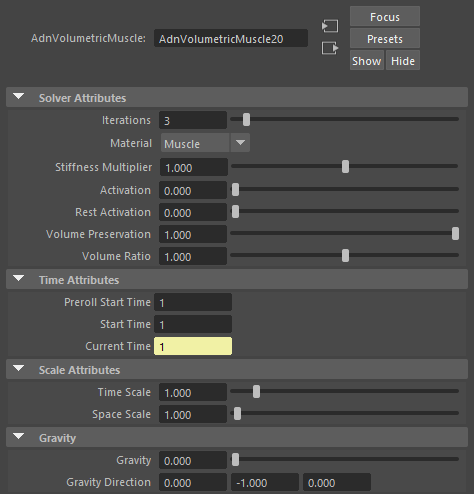
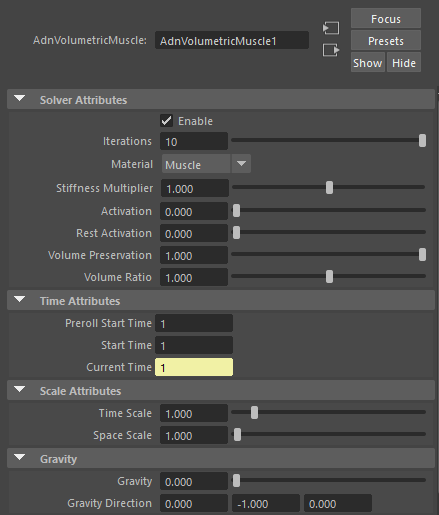
Updated volumetric muscle documentation.

Changed region(s): [[0.0, 0.1822, 1.0, 0.9109], [0.0592, 0.0, 0.9772, 0.1518], [0.1481, 0.9109, 0.9476, 1.0]]

diff --git a/docs/documentation/maya/1.0.0/volumetric.md b/docs/documentation/maya/1.0.0/volumetric.md
@@ -1,10 +1,12 @@
-# How To Use
+# Introduction
 
 Volumetric Muscle is a Maya deformer for fast, robust and easy-to-configure volumetric muscle simulation for digital assets. Thanks to the combination of internal (structural) and external (attachments) constraints, this deformer can produce dynamics that allow the mesh to acquire the simulated characteristics of a muscle with realistic volume preservation, fibers activations to modulate the rigidity and attachments properties to external objects to follow the global kinematics of the character.
 
+The influence of these constraints have in the simulated mesh can be freely modified by painting them via the [AdonisFX Paint Tool](tools.md) or by uniformingly regulating their influence via multipliers in the attribute editor. Beyond these constraints, several paramenters to regulate the volumetric muscle's dynamics are available to modify the deformer's behaviour as a whole.
+
 ## Requirements
 
-The Volumetric Muscle deformer requires the following inputs to be provided:
+To create a Volumetric Muscle deformer within a Maya scene, the following inputs must be provided:
 
   - <b class="mesh_color"> Attachments </b> to which the simulated muscle will be attached to. Any transform node can be used (e.g. bones, locators, meshes, etc). This input is optional and unlimited.
   - <b class="mesh_color"> Muscle Geometry </b> that the volumetric muscle deformer will be applied onto.
@@ -14,13 +16,8 @@ The Volumetric Muscle deformer requires the following inputs to be provided:
 
 ## Create Volumetric Muscle
 
-1. Select the attachments (if any) and the geometry in the following order:
-    ``` mermaid
-    graph LR
-      A["N Attachments\n"] --> B;
-      B["Muscle\n"];
-    ```
-2. Press the ![Volumetric Muscle button](../../../images/adn_muscle_sim.png) button in the AdonisFX shelf or press Volumetric Muscle in the AdonisFX menu. 
+1. Select the attachments (if any), then the geometry.
+2. Press the ![Volumetric Muscle button](../../../images/adn_volumetric_muscle.png){width=40px} button in the AdonisFX shelf or press Volumetric Muscle in the AdonisFX menu. 
 3. Volumetric muscle is ready to simulate with default settings. Check [this page](#attributes) to customize the configuration.
 
 ## Paintable Weights
@@ -32,6 +29,7 @@ In order to provide more artistic control, some key parameters of the volumetric
 - *Fibers*: the deformer estimates the fiber directions at each vertex based on the tendon weights. In case that the estimated fibers do not fit well to the desired directions, we can use the paint tool to comb the fibers manually. The fibers can be displayed using the [Draw Fibers](#debug) option in the deformer 
 - *Compression Resistance*: force to correct the edge lengths if the current length is smaller than the rest length. A higher value represents higher correction.
 - *Stretching Resistance*: force to correct the edge lengths if the current length is greater than the rest length. A higher value represents higher correction.
+- *Slide on Segment Constraints*: weight to force vertices to displace only in the direction of a user-specified group of segments.
 
 <figure>
   <img src="../../../images/volumetric_paint_example.png"> 
@@ -41,6 +39,8 @@ In order to provide more artistic control, some key parameters of the volumetric
 !!! Note
     - The attachment weights are normalised at each vertex. This normalisation is applied when a stroke is finished. The use of the AdonisFX painting tool is mandatory for that. The basics of the paint tool are explained in [this section](#adonisfx-paint-tool).
     - We recommend to paint the values for the most influent attractors at the end in order to avoid the internal normalisation override them in further strokes.
+
+<!-- DEV NOTE: Remove this after merging issue #11 where we created the tools.md page -->
 
 ### AdonisFX Paint Tool
 
@@ -85,77 +85,145 @@ Following, we present the key aspects to keep in mind while painting each attrib
 [^1]:
   Soft range: higher values can be used.
 
-<style>
-table th:first-of-type {
-    width: 20%;
-}
-table th:nth-of-type(2) {
-    width: 10%;
-}
-table th:nth-of-type(3) {
-    width: 15%;
-}
-table th:nth-of-type(4) {
-    width: 10%;
-}
-table th:nth-of-type(5) {
-    width: 45%;
-}
-</style>
-
 #### Solver Attributes
-| Attribute            | Type  | Value     | Range/Options     | Description                  |
-| :------------        | :---  | :----     | :------------     | :--------------------------- |
-| Iterations           | Long  | 3         | \[1, 10\] [^1]    | Number of iterations that the solver will execute per simulation step. |
-| Material             | Enum  | Leather   | <ul><li>Fat</li><li>Muscle</li><li>Rubber</li><li>Tendon</li><li>Leather</li><li>Wood</li><li>Concrete</li></ul> | Solver stiffness. The materials are listed from lowest to highest stiffness. |
-| Stiffness Multiplier | Float | 1.0       | \[0.0, 2.0\] [^1] | Multiplier factor to scale up or down the material stiffness. |
-| Activation           | Float | 0.0       | \[0.0, 1.0\]      | Current activation of the deformed volumetric muscle. The activation modifies the stiffness of the muscle depending on the fibers direction of the muscle. |
-| Rest Activation      | Float | 0.0       | \[0.0, 1.0\]      | Rest activation of the deformed volumetric muscle. The rest activation modifies the stiffness of the muscle depending on the fibers direction of the muscle at rest. |
-| Volume Preservation  | Float | 1.0       | \[0.0, 1.0\]      | Ratio of volume preservation during deformation of the muscle. A higher value indicated a higher muscle volume preservation during deformation. |
-| Volume Ratio         | Float | 1.0       | \[0.0, 2.0\] [^1] | Ratio of volume preservation during deformation of the muscle. A higher value indicated a higher muscle volume preservation during deformation. |
+
+| Iterations   |                                                                   |
+| :----        | :-----------------------------------------------------------------|
+| Type         | Long                                                              |
+| Default Value| 10                                                                |
+| Description  | Number of iterations that the solver will execute per simulation <br/>step. Greater values mean greater computational cost.<br/><br/>Has a range of \[1, 10\] [^1]|
+
+| Material     |                                                                   |
+| :----        | :-----------------------------------------------------------------|
+| Type         | Enum                                                              |
+| Default Value| Leather                                                           |
+| Description  | Solver stiffness presets per material. The materials are listed <br/>from lowest to highest stiffness.<br/><br/> *Options*: <ul><li>Fat: 1e+3</li><li>Muscle: 5e+3</li><li>Rubber: 1e+6</li><li>Tendon: 5e+7</li><li>Leather: 1e+8</li><li>Wood: 6e+9</li><li>Concrete: 2.5e+10</li></ul>|
+
+| Stiffness Multiplier|                                                            |
+| :----               | :----------------------------------------------------------|
+| Type                | Long                                                       |
+| Default Value       | 1.0                                                          |
+| Description         | Multiplier factor to scale up or down the material stiffness.<br/><br/>Has a range of \[0.0, 2.0\] [^1]|
+
+| Activation   |                                                                   |
+| :----        | :-----------------------------------------------------------------|
+| Type         | Float                                                             |
+| Default Value| 0.0                                                               |
+| Description  | Current activation of the deformed volumetric muscle.<br/>The activation modifies the stiffness of the muscle depending<br/>on the fibers direction of the muscle.<br/><br/>Has a range of \[0.0, 1.0\] [^1]|
+
+| Rest Activation|                                                                 |
+| :----          | :---------------------------------------------------------------|
+| Type           | Float                                                           |
+| Default Value  | 0.0                                                             |
+| Description    | Value representing the amount of rest activation to apply to the muscle.<br/><br/>Has a range of \[0.0, 1.0\] [^1]|
 
 #### Time Attributes
-| Attribute          | Type | Value         | Range/Options    | Description                  |
-| :---------------   | :--- | :----         | :----------       | :--------- |
-| Preroll Start Time | Time | Current frame || Frame to start the preroll. |
-| Start Time         | Time | Current frame || Frame to end the preroll and start the simulation. |
-| Current Time       | Time | Current frame || Current playback frame. |
+
+| Preroll Start Time   |                                                           |
+| :----        | :-----------------------------------------------------------------|
+| Type         | Time                                                              |
+| Default Value| Current frame                                                     |
+| Description  | Sets the frame at which the preroll begins. The preroll ends at<br/> Start Time|
+
+| Start Time   |                                                                   |
+| :----        | :-----------------------------------------------------------------|
+| Type         | Time                                                              |
+| Default Value| Current frame                                                     |
+| Description  | Determines the frame at which the simulation starts.|
+
+| Current Time |                                                                   |
+| :----        | :-----------------------------------------------------------------|
+| Type         | Time                                                              |
+| Default Value| Current frame                                                     |
+| Description  | Current playback frame.|
 
 #### Scale Attributes
-| Attribute   | Type  | Value | Range/Options          | Description                  |
-| :---------- | :---  | :---- | :------------          | :--------------------------- |
-| Time Scale  | Float | 1.0   | \[1e^-3^, 10.0\] [^1]  | Scale to control the time step relative to the Dependency Graph time. |
-| Space Scale | Float | 1.0   | \[1e^-3^, 100.0\] [^1] | Scale to control the space relative to the scene units. |
+
+| Time Scale   |                                                                   |
+| :----        | :-----------------------------------------------------------------|
+| Type         | Float                                                             |
+| Default Value| 1.0                                                               |
+| Description  | Sets the scaling factor applied to the simulation time step.<br/><br/>Has a range of \[0.0, 2.0\] [^1]|
+
+| Space Scale   |                                                                  |
+| :----        | :-----------------------------------------------------------------|
+| Type         | Float                                                             |
+| Default Value| 1.0                                                               |
+| Description  | Sets the scaling factor applied to the masses and/or the forces.<br/><br/>Has a range of \[0.0, 2.0\] [^1]|
 
 #### Gravity
-| Attribute         | Type   | Value            | Range/Options       | Description               |
-| :------------     | :---   | :----            | :------------       | :------------------------ |
-| Gravity           | Float  | 0.0              | \[0.0, 100.0\] [^1] | Magnitude of the gravity. |
-| Gravity Direction | Float3 | (0.0, -1.0, 0.0) |                     | Direction of the gravity. |
+
+| Gravity   |                                                                      |
+| :----        | :-----------------------------------------------------------------|
+| Type         | Float                                                             |
+| Default Value| 1.0                                                               |
+| Description  | Sets the magnitude of the gravity acceleration.                   |
+
+| Gravity Direction   |                                                            |
+| :----        | :-----------------------------------------------------------------|
+| Type         | Float3                                                            |
+| Default Value| (0.0, -1.0, 0.0)                                                  |
+| Description  | Sets the direction of the gravity acceleration.                   |
 
 ### Advanced Settings
 
 #### Stiffness Settings
-| Attribute            | Type  | Value    | Range/Options   | Description                  |
-| :------------        | :---  | :----    | :------------   | :--------------------------- |
-| Use Custom Stiffness | Bool  | False    || Flag that enables the custom stiffness. If we use custom stiffness, **Material** and **Stiffness Multiplier** will be disabled and **Stiffness** will be used instead. |
-| Stiffness            | Float | 10^5^    | \[0.0, inf\]    | Custom stiffness value. |
+
+| Use Custom Stiffness|                                                            |
+| :----        | :-----------------------------------------------------------------|
+| Type         | Bool                                                              |
+| Default Value| False                                                             |
+| Description  | Toggles the use of a custom stiffness value. If enabled, the <br/>Material is ignored and the Stiffness parameter is used instead.|
+
+| Stiffness    |                                                                   |
+| :----        | :-----------------------------------------------------------------|
+| Type         | Float                                                             |
+| Default Value| 10^5^                                                             |
+| Description  | Sets the custom stiffness value.<br/><br/>Has a range of \[0.0, inf\]|
 
 #### Dynamic Properties
-| Attribute              | Type  | Value | Range/Options     | Description                  |
-| :------------          | :---  | :---- | :------------     | :--------------------------- |
-| Global Damping         | Float | 0.0   | \[0.0, 2.0\] [^1] | Global damping introduced to the system. |
-| Inertia Damping        | Float | 0.0   | \[0.0, 1.0\]      | Damping affecting only the inertias in the system. |
-| Rest Length Multiplier | Float | 1.0   | \[0.0, 2.0\] [^1] | Scaling factor of the edge rest lengths. |
-| Stretching Resistance  | Float | 1.0   | \[0.0, 1.0\]      | Force to correct the edge lengths if the current length is greater than the rest length. This attribute is paintable. | 
-| Compression Resistance | Float | 1.0   | \[0.0, 1.0\]      | Force to correct the edge lengths if the current length is smaller than the rest length. This attribute is paintable. |
-| Hard Attachments       | Bool  | False | \[False, True\]   | If enabled, attachment constraints will force the vertices to stick to target transformation completely. |
 
-#### Debug
-| Attribute    | Type  | Value | Range/Options      | Description                  |
-| :----------- | :---  | :---- | :------------      | :--------------------------- |
-| Draw Fibers  | Bool  | False | \[False, True\]    | Draw the debug fibers in the viewport. |
-| Fibers Scale | Float | 1.0   | \[0.0, 10.0\] [^1] | Scale the fibers drawn in the viewport to increase their size. |
+| Global Damping|                                                                  |
+| :----        | :-----------------------------------------------------------------|
+| Type         | Float                                                             |
+| Default Value| 0.75                                                              |
+| Description  | Sets the scaling factor applied to the global damping of every <br/>point.<br/><br/>Has a range of \[0.0, 2.0\] [^1]|
+
+| Inertia Damper|                                                                  |
+| :----        | :-----------------------------------------------------------------|
+| Type         | Float                                                             |
+| Default Value| 0.0                                                               |
+| Description  | Sets the linear damping applied to the dynamics of every point.<br/><br/>Has a range of \[0.0, 1.0\] [^1]|
+
+| Rest Length Multiplier|                                                          |
+| :----        | :-----------------------------------------------------------------|
+| Type         | Float                                                             |
+| Default Value| 1.0                                                               |
+| Description  | Sets the scaling factor applied to the edge lengths at<br/>rest.<br/><br/>Has a range of \[0.0, 2.0\] [^1]|
+
+| Compression Multiplier|                                                          |
+| :----        | :-----------------------------------------------------------------|
+| Type         | Float                                                             |
+| Default Value| 1.0                                                               |
+| Description  | Sets the scaling factor applied to the compression<br/>resistance of every point.<br/><br/>Has a range of \[0.0, 2.0\] [^1]|
+
+| Stretching Multiplier|                                                           |
+| :----        | :-----------------------------------------------------------------|
+| Type         | Float                                                             |
+| Default Value| 1.0                                                               |
+| Description  | Sets the scaling factor applied to the stretching <br/>resistance of every point.<br/><br/>Has a range of \[0.0, 2.0\] [^1]|
+
+| Attenuation Velocity factor|                                                     |
+| :----        | :-----------------------------------------------------------------|
+| Type         | Float                                                             |
+| Default Value| 0.5                                                               |
+| Description  | Sets the weight of the attenuation applied to<br/>the whole simulation driven by the Attenuation<br/>Matrix.<br/><br/>Has a range of \[0.0, 10.0\] [^1]|
+
+| Hard Attachments|                                                                |
+| :----        | :-----------------------------------------------------------------|
+| Type         | Bool                                                              |
+| Default Value| False                                                             |
+| Description  | If enabled, attachment constraints will force the<br/>vertices to stick to target transformation completely.|
 
 ## Attribute Editor Template
 
@@ -173,13 +241,54 @@ table th:nth-of-type(5) {
 
 ## Attachments
 
-Once the volumetric muscle deformer is created, it is possible to add and remove new attachments to the system.
+Once the Volumetric Muscle deformer is created, it is possible to add and remove new attachments to the system. 
 
 - **Add attachments**:  
     1. Select the transform nodes (one or more) that you want to assign as attachments to the Volumetric Muscle.
     2. Select the mesh that has the Volumetric Muscle deformer applied.
-    3. Press the ![Add Attachments button](../../../images/adn_add_attachment.png) button in the AdonisFX shelf or press Add Attachments in the AdonisFX menu from the Edit Muscle submenu.
+    3. Press the ![Add Attachments button](../../../images/adn_add_attachment.png){width=40px} button in the AdonisFX shelf or press Add Attachments in the AdonisFX menu from the Edit Muscle submenu.
 - **Remove attachments**:
     1. Select one or more transform nodes that are assigned as attachments to the Volumetric Muscle.
     2. Select the mesh that has the Volumetric Muscle deformer applied.
-    3. Press the ![Remove Attachments button](../../../images/adn_remove_attachment.png) button in the AdonisFX shelf or press Remove Attachments in the AdonisFX menu from the Edit Muscle submenu. 
+    3. Press the ![Remove Attachments button](../../../images/adn_remove_attachment.png){width=40px} button in the AdonisFX shelf or press Remove Attachments in the AdonisFX menu from the Edit Muscle submenu. 
+    4. Alternatively, if only the mesh with the Volumetric Muscle deformer is selected, when pressing the ![Remove Attachments button](../../../images/adn_remove_attachment.png){width=40px} button, all attachments will be removed.
+
+## Slide on Segment Constraint
+
+Additionally to all previously mentioned constraints, volumetric muscles can have an additional, optional constraint. Here the user may add attachments that will define a segment over which the muscle will slide.
+
+- **Add Segment**:
+    1. Select the transform nodes (two or more if this is the first segment you are adding) from which you would wish to make a segment for the muscle to slide on.
+    2. Select the mesh that has the volumetric Muscle deformer applied.
+    3. Press Add Attachments in the AdonisFX menu from the Edit Muscle submenu.
+- **Remove Segment**:  
+    1. Select one or more transform nodes that are assigned as attachments to the Volumetric Muscle.
+    2. Select the mesh that has the Volumetric Muscle deformer applied.
+    3. press Remove Attachments in the AdonisFX menu from the Edit Muscle submenu. 
+    4. Alternatively, if only the mesh with the Volumetric Muscle deformer is selected, when pressing Remove Attachments in the AdonisFX menu, all attachments will be removed.
+
+## Debugger
+
+To better visualize deformer constraints and attributes in the Maya viewport there is the option to enable the debugger, found in the dropdown menu labeled "Debug" in the attribute editor. 
+
+<figure markdown>
+  ![volumetric muscle editor debug menu](../../../images/attribute_editor_ribbon_debug.png)
+  <figcaption>Figure 4: Volumetric Muscle Attribute Editor (Debug menu)</figcaption>
+</figure>
+
+To enable the debugger the *Debug* checkbox must be marked. To select the specific feature you would like to visualize, choose it from the list provided in *Features*. The features that can be visualized with the debugger in the Volumetric Muscle deformer are:
+
+ - **Muscle Fibers**
+ - **Attachments Constraints**
+ - **Sliding on Segment Constraints**
+
+Enabling the debugger and selecting one of these constraints will draw lines from the influenced vertices in the simulated mesh to their corresponding reference vertices. 
+
+The following paramenters can be modified to better customize the appereance of these lines:
+
+ - **Width Scale**: Modifies the width of all lines.
+ - **Color**: Selects the line color from a color wheel. Its saturation can be modified using the slider.
+
+Additionally, for the specific case of debugging fibers, one more attribute is available:
+
+ - **Fiber scale value**: can be modified to set a custom fiber length.
